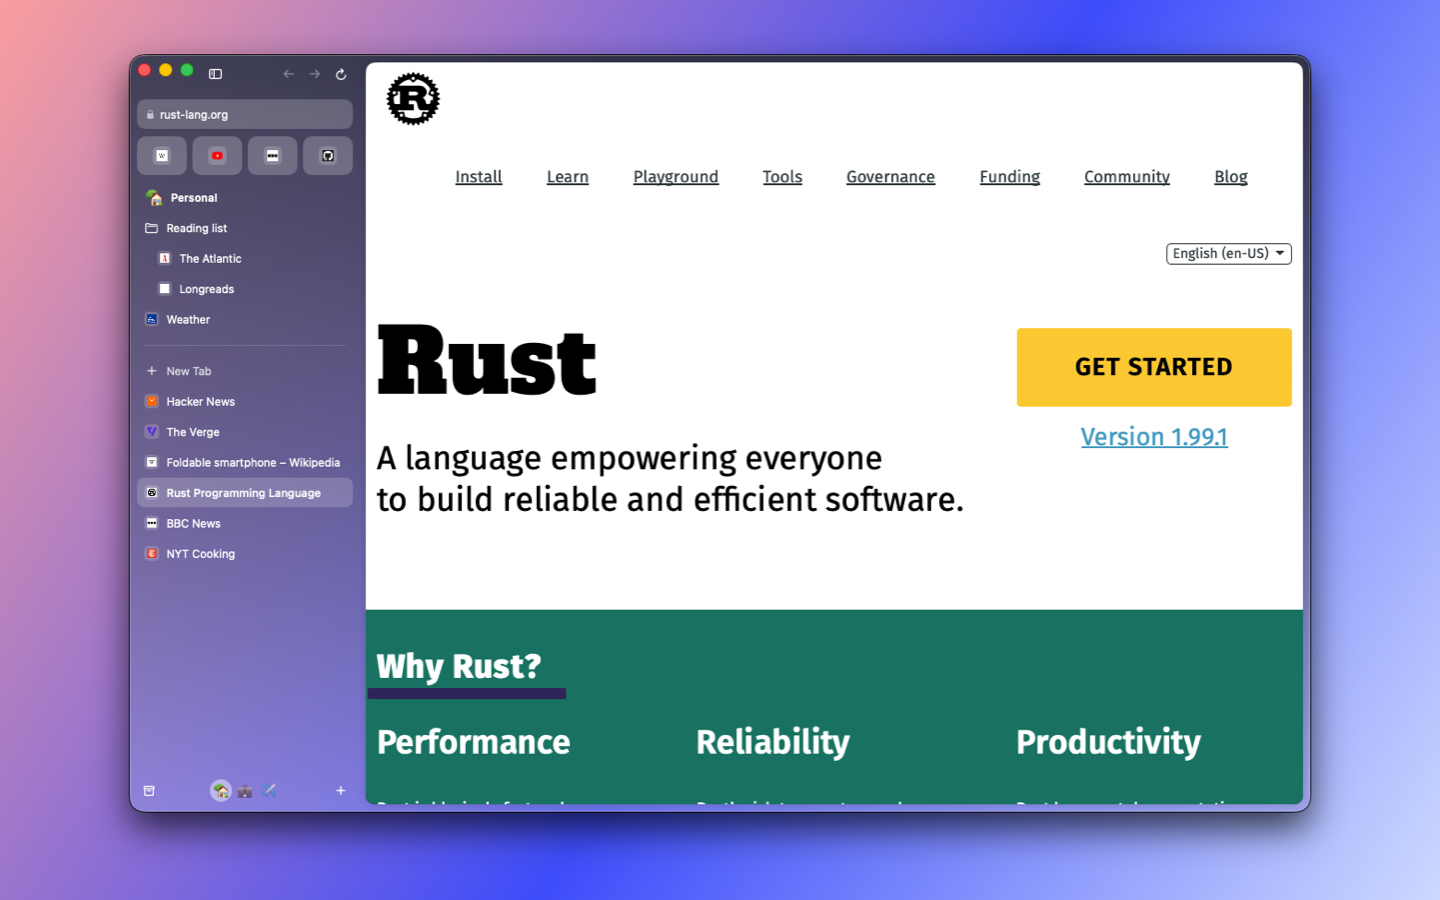
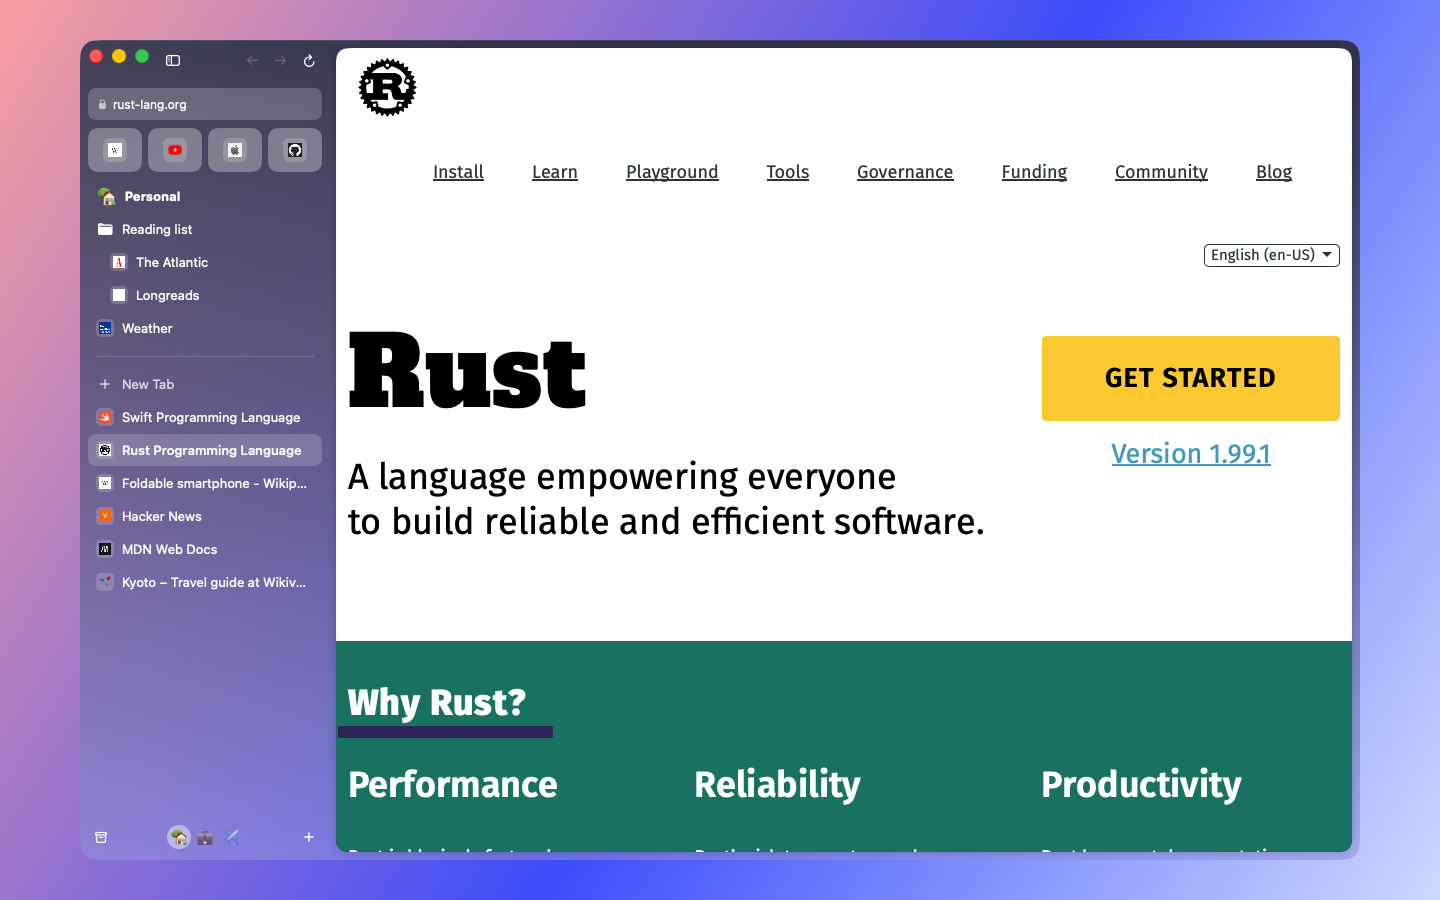
New App Store screenshots for iPhone and Mac (#17)
* New App Store screenshots for iPhone and Mac; Mac and unfolded shots in the README

iPhone: five 1320 x 2868 images, each a captioned iPhone Duo screenshot (page, tabs, search, page menu, unfolded),
replacing the ones that showed the removed home view. Mac: three new window shots (Personal, Work, Travel).
The README adds the unfolded Duo and the third Mac shot; the hero uses the new Mac window.

* App Store listing and review notes: current iPhone layout

The description and review notes described spaces and a home screen on iPhone. They now cover the page-first
iPhone with its rail and tab carousel, the Duo postures, search, per-device Today, on-device AI, and spaces as a
Mac feature.

diff --git a/docs/app-store.md b/docs/app-store.md
@@ -19,27 +19,41 @@ Everything needed to submit Boaz for iPhone and Mac. Facts here match the code a
 
 ## Listing text
 
-**Subtitle** (30 max): `Spaces, pins and tabs, synced`
+**Subtitle** (30 max): `Calm browsing on iPhone & Mac`
 
 **Promotional text** (170 max):
-Your spaces, pinned tabs and favorites, in step on iPhone and Mac. Bring your Arc sidebar over as is, and browse
-without ads or trackers.
+Opens right where you left off, follows every posture of iPhone Duo, and keeps your tabs in step with your Mac. No
+ads, no trackers, no accounts.
 
 **Description**:
 
 Boaz is a calm, fast browser that keeps your web organized the way you think.
 
-SPACES FOR EVERYTHING
-Keep work, home and projects apart. Each space has its own color, pinned tabs and favorites, and swiping moves
-between them.
+PICK UP WHERE YOU LEFT OFF
+On iPhone, Boaz opens on the last page you had open. A slim rail beside the page holds your recent tabs, search and
+the page menu. Tap the stack of tabs to flip through all of them.
+
+MADE FOR IPHONE DUO
+Folded, the page fills the screen. Open it and a sidebar with search and your tabs sits next to the page. Half-open
+like a laptop, the page stays on top and the controls move below. The page never reloads as the hinge moves.
+
+SEARCH THAT KNOWS YOUR TABS
+Suggestions from your search engine, mixed with your open tabs and history. Nothing is sent from Incognito.
+
+SPACES ON THE MAC
+Keep work, home and projects apart. Each space has its own color, pinned tabs and favorites.
 
 TABS THAT TIDY THEMSELVES
 New tabs land in Today. Ones you haven't opened in a while move to the Archive on their own, so the clutter never
 builds up. Pin what matters and it stays.
 
-MADE FOR IPHONE AND MAC
-Your spaces, pins and tabs stay in step through your private iCloud. On iPhone Duo, Boaz uses every posture:
-sidebar and page side by side when open, the page above and controls below when half-open like a laptop.
+IN STEP ON IPHONE AND MAC
+Pins, favorites and tabs sync through your private iCloud. Each device keeps its own Today list, and your iPhone
+can open the tabs on your Mac.
+
+ON-DEVICE INTELLIGENCE
+Summarize a page, ask it questions, or sort your tabs into folders, using Apple's on-device model on supported
+devices. Nothing leaves your device.
 
 BRING ARC WITH YOU
 On Mac, import your Arc spaces, pinned folders, favorites, themes and keyboard shortcuts as they are. Chrome, Brave,
@@ -69,11 +83,12 @@ the system only).
 
 ## Notes for App Review (paste into "Notes")
 
-No account or sign-in is needed; the app opens with a starter library.
+No account or sign-in is needed, and iCloud sync is optional during the short first-run setup.
 
-- iPhone: tap the search button to open a page; long-press a tab card to pin or close it; Settings is in the ≡
-  menu on the home screen. On iPhone Duo the layout follows the hinge (side by side when open, page above controls when half-open).
-  On other iPhones and on iPad the toolbar sits at the bottom.
+- iPhone: tap **+** on the rail beside the page to search or enter an address. The stack of tabs above it opens the
+  tab carousel: tap a card to open that tab, swipe it up to archive it; the gear button there opens Settings. **…**
+  opens the page menu (Back, Forward, Reload, Share, Pin, Reader and more). On iPhone Duo the layout follows the
+  hinge (a sidebar next to the page when open, page above controls when half-open). Other iPhones use the folded layout.
 - Mac: links from other apps open in a small "Little Boaz" window; "Open in Boaz" moves them into the main window.
 - Import from Arc (Mac, optional) needs Arc installed: File › Import from Arc… asks you to choose Arc's data folder
   (~/Library/Application Support/Arc). "Keep me signed in" (copy Arc's cookies) is a separate, opt-in checkbox; macOS then asks
@@ -90,6 +105,10 @@ Generated into `docs/screenshots/` (not part of the app build).
 |---|---|---|
 | iPhone 6.9" | 1320 × 2868 portrait | `iphone-69-*.png` |
 | Mac | 1440 × 900 | `mac-*.png` |
+
+The iOS 27.1 simulator only offers iPhone Duo, whose screens aren't an App Store size, so each `iphone-69-*` image is
+a Duo screenshot (`duo-*.png`, folded, and the unfolded inner screen) captioned on the brand gradient. The Mac images
+are the app window on the same gradient.
 
 iPad screenshots aren't needed for an iPhone-only app.
 

diff --git a/README.md b/README.md
@@ -53,12 +53,17 @@ iPhone Duo, folded:
   </tr>
 </table>
 
+iPhone Duo, open:
+
+<img src="docs/screenshots/duo-5-open.png" alt="Unfolded: the sidebar with search and Today next to the page" width="640">
+
 Mac:
 
 <table>
   <tr>
-    <td><img src="docs/screenshots/mac-1-personal.png" alt="Boaz for Mac, Personal space" width="440"></td>
-    <td><img src="docs/screenshots/mac-2-work.png" alt="Boaz for Mac, Work space" width="440"></td>
+    <td><img src="docs/screenshots/mac-1-personal.png" alt="Boaz for Mac, Personal space" width="290"></td>
+    <td><img src="docs/screenshots/mac-2-work.png" alt="Boaz for Mac, Work space" width="290"></td>
+    <td><img src="docs/screenshots/mac-3-travel.png" alt="Boaz for Mac, Travel space" width="290"></td>
   </tr>
 </table>
 
